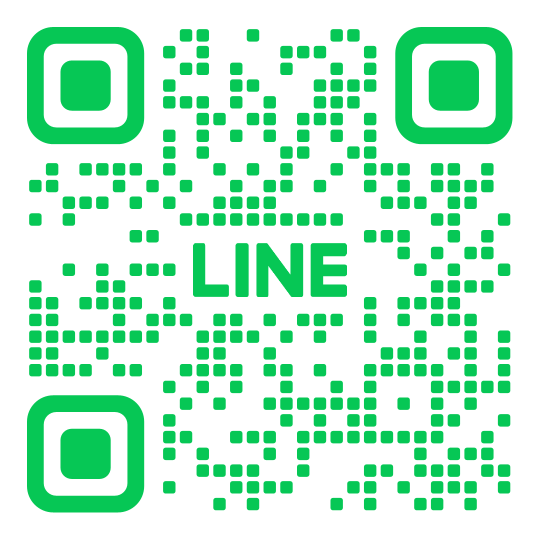
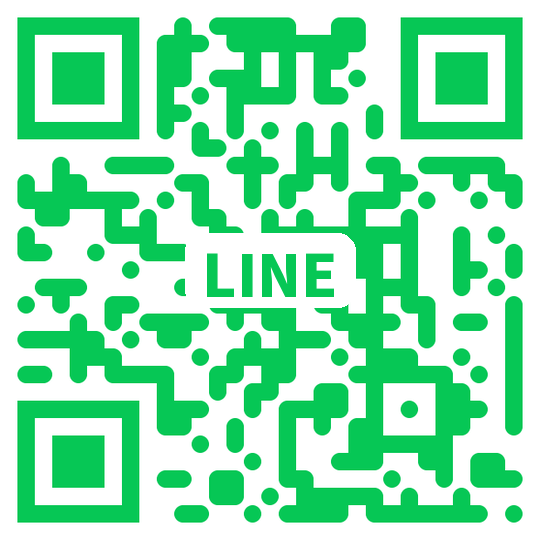
公式LINE の経路URL 17件を LINE_ROUTES.md に・ストーリー③の QR を経路つき（instagram/story_qr）に差し替え（11/18 加藤さん）
Claude-Session: https://claude.ai/code/session_01AMWVn4qz4CoinGFCZUGXt8

diff --git a/ai_employees/LINE_ROUTES.md b/ai_employees/LINE_ROUTES.md
@@ -1,0 +1,27 @@
+# LINE_ROUTES.md — 公式LINE 友だち追加経路の URL（2026-11-18・管理画面から直接読み取り）
+
+元：LINE 公式アカウント管理画面 → 友だち追加経路（17件）。Obsidian `02_Visual_Ideas/公式LINE_経路URLの貼り場所（Muse用）.md` と同じ表。貼る作業は Muse（Instagram の行は Claude Code）。
+
+| # | 経路 | 流入元 | キャンペーン | URL | 貼る場所 | 担当 |
+|---|---|---|---|---|---|---|
+| 1 | SNS | instagram | profile | https://lin.ee/PLwy60G | Instagram のリンク一覧（fanme）の LINE ボタン | Muse／加藤さん（fanme の編集） |
+| 2 | SNS | instagram | story_qr | https://lin.ee/YBb7Xtb | ストーリー③の QR（studio/assets/line_qr.png・11/18 差し替え済み） | Claude Code |
+| 3 | SNS | youtube | shorts | https://lin.ee/TV1EhzG | YouTube Shorts の概要欄（Muse投稿リストの文に入れる） | Claude Code が文に入れる → Muse |
+| 4 | SNS | note | article | https://lin.ee/sHUV4uy | note の記事の最後 | Claude Code が文に入れる → Muse |
+| 5 | ホームページ | tunagate | event | https://lin.ee/r6ZZ24a | つなげーとの告知文 | Muse |
+| 6 | ホームページ | lp | main | https://lin.ee/84S6xya | LP の LINE ボタン | Muse |
+| 7 | ホームページ | peatix | event | https://lin.ee/wMNl1GF | Peatix の告知文 | Muse |
+| 8 | ホームページ | kokuchpro | event | https://lin.ee/w2FwuTq | こくちーずプロの告知文 | Muse |
+| 9 | ホームページ | labola | event | https://lin.ee/SpObwFp | LaBOLA の告知文 | Muse |
+| 10 | ホームページ | eventbox | event | https://lin.ee/Q3b8JQHT | イベントボックスの告知文（8文字・管理画面で確認済み） | Muse |
+| 11 | ホームページ | emoshicom | event | https://lin.ee/SAdwhUl | e-moshicom の告知文 | Muse |
+| 12 | SNS | tiktok | profile | https://lin.ee/vtTVjTI | TikTok のプロフィール | Muse（準備ができたら） |
+| 13 | SNS | x | post | https://lin.ee/9BUPeRU | X の投稿・プロフィール | Muse（準備ができたら） |
+| 14 | SNS | threads | post | https://lin.ee/Tr6SQyw | Threads の投稿 | Muse（準備ができたら） |
+| 15 | SNS | pinterest | pin | https://lin.ee/VLwF9CC | Pinterest のピンのリンク先 | Muse（準備ができたら） |
+| 16 | SNS | facebook | post | https://lin.ee/ZB1JMAN | Facebook の投稿 | Muse（準備ができたら） |
+| 17 | ホームページ、SNS | （なし） | （なし） | https://lin.ee/NHpYJXB | 2026/05/03 の古い経路（パラメーターなし）。新しく貼らない | ― |
+
+- 経路の URL が無い所・どこにも当てはまらない所は https://lin.ee/QuIhlkl（11/18）。Instagram の本文では URL を書かない決まりは変わらない。
+- 管理画面の注意：ポスター・ノベルティ用の経路と、2024/10/23 より前の経路は一覧に出ない（もしあれば上の表に無い）。
+- 集計：日曜21:00 に LINE の「友だち追加経路」で流入元ごとの人数を見て、Obsidian [[公式LINE_友だち追加の経路]] に週1行。

diff --git a/ai_employees/OTHER_SNS.md b/ai_employees/OTHER_SNS.md
@@ -46,7 +46,7 @@
 ## Muse の返事（11/16）
 - 担当は YouTube と note の投稿だけ。Obsidian は読むだけ。note は下書き保存→加藤さんの最終確認→公開。note の予約投稿は不明（初回に確認）。
 - YouTube Shorts は Instagram の翌日 19:00 に予約公開でそろえる。投稿リストには素材フォルダへのリンクも書く。
-- **公式LINE の経路URL（16行）と貼る場所**は Obsidian `02_Visual_Ideas/公式LINE_経路URLの貼り場所（Muse用）.md`。加藤さんが作った URL をそこに書き、Muse が貼る（Instagram の行1・2は Claude Code）。URL が無い行は QuIhlkl。
+- **公式LINE の経路URL（17件・11/18 取得済み）は ai_employees/LINE_ROUTES.md**。YouTube の概要欄は TV1EhzG、note は sHUV4uy、Pinterest は VLwF9CC など、媒体ごとの URL を文に入れる。同じ表が Obsidian `02_Visual_Ideas/公式LINE_経路URLの貼り場所（Muse用）.md`。加藤さんが作った URL をそこに書き、Muse が貼る（Instagram の行1・2は Claude Code）。URL が無い行は QuIhlkl。
 - **他のSNS・イベントアプリの告知文に書く公式LINE のURLは https://lin.ee/QuIhlkl**（11/18 加藤さん。Instagram はこれまでどおり T93OXDF と QR のまま）。
 - 公式LINE の正しいリンクは https://lin.ee/T93OXDF（11/16 加藤さん。LINE公式アカウントの管理画面「友だち追加URL」で確認）。前の WIbLPFV・Muse の oowueEx は使わない。
 

diff --git a/CLAUDE.md b/CLAUDE.md
@@ -58,7 +58,7 @@
 ## 3. 場所
 
 - Instagram 以外（他のSNS・イベントアプリの告知文・Muse が貼る所）の公式LINE URL は **https://lin.ee/QuIhlkl**（11/18 加藤さん）。Instagram は下のとおり変えない。
-- Instagram @macachette_sports ／ 公式LINE https://lin.ee/T93OXDF（LINE ID **@827lnqaq**、QR は studio/assets/line_qr.png。11/12 からストーリー③に QR と ID を入れる）／ リンク一覧 https://fanme.link/@0966712221a41fa899c2
+- Instagram @macachette_sports ／ 公式LINE https://lin.ee/T93OXDF（LINE ID **@827lnqaq**、QR は studio/assets/line_qr.png。11/12 からストーリー③に QR と ID を入れる。11/18 から QR の中身は経路つき https://lin.ee/YBb7Xtb（instagram/story_qr）。媒体ごとの経路URLは ai_employees/LINE_ROUTES.md）／ リンク一覧 https://fanme.link/@0966712221a41fa899c2
 - 設計書（claude.ai）：https://claude.ai/artifact/B2tHqPS45h9HtCVAHMJZXh
   - 控えは `docs/handover/設計書_*.md`。中身は「設計書／11月 投稿表／投稿企画（型とテーマ案）／ストーリー 11/2〜11/8／12月 告知デザイン・動画プロンプト」
 - Drive「Macachette素材」 `1zK_ThUGsYEbrzFdNArXtEI6pbOp2IVAL`
